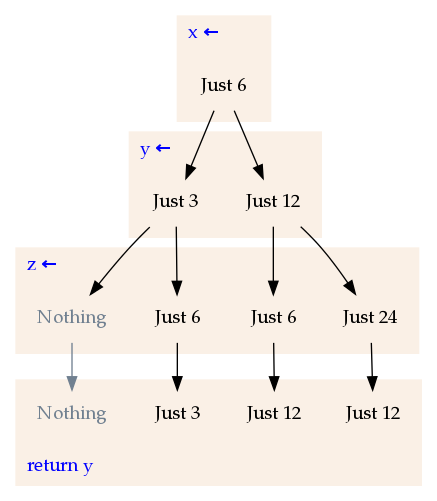
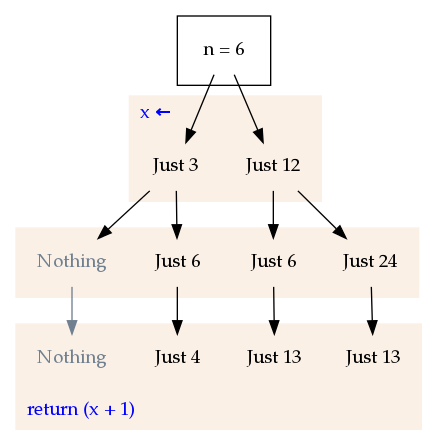
cool

Changed region(s): [[0.0297, 0.0292, 0.9817, 0.8472], [0.0595, 0.9056, 0.3272, 0.964], [0.3272, 0.2921, 0.3867, 0.3213]]

diff --git a/copy/entries/monad-plus-2.md b/copy/entries/monad-plus-2.md
@@ -177,7 +177,8 @@ ghci which MonadPlus we want.
 So there you have it. Maybe and lists are one and the same.  Lists *do* too
 represent the concept of failure and success.  So...what's the difference?
 
-### A List Apart
+A List Apart
+------------
 
 Lists can model failure the same way that Maybe can.  But it should be
 apparent that lists can do a little "more" than Maybe...
@@ -207,6 +208,8 @@ result of every path that could have lead to a success.  Contrast this to the
 `Maybe` monad, where a value goes through this arduous journey, but never has
 any choice.  There is only one path --- succesful, or otherwise.  A `Maybe` is
 deterministic...a list provides a choice in paths.
+
+### halveOrDouble
 
 Let's take a simple example: `halveOrDouble`.  It provides two succesful paths
 if you are even: halving and doubling.  It only provides one choice or
@@ -263,6 +266,8 @@ double-halve, or double-double.  The second, 6 could have emerged succesful
 with halve-double, double-halve, or double-double.  For 8, all paths are
 succesful, incidentally.  He better check his privilege.
 
+#### Do notation
+
 Let's look at this in the do notation form to offer some possible insight:
 
 ~~~haskell
@@ -297,6 +302,8 @@ inside the object --- `x` represents **a** 3 or **a** 12 (but not "both" at
 the same time), depending on what path you are taking/are "in".  That's why we
 can call `halveOrDouble x`: `halveOrDouble` only takes `Int`s and `x` is *one*
 `Int` along the path.
+
+### A winding journey
 
 Note that once you bind a value to a variable (like `x`), then that is the
 value for `x` for the entire rest of the journey.  In fact, let's see it in
@@ -337,37 +344,53 @@ four possible "paths".
 4.  Same story here, but for double-double; `x` is 12.  At the end of it all,
     the journey never fails, so it succeeds with `x + 1`, or 13.
 
+#### Taking it every way
 
-
-
-
-
-<!-- ![*halveOrDoubleDance 6*, all journeys illustrated](/img/entries/monad-plus/halvedouble.png "halveOrDoubleDance 6") -->
-
-Huh.  What happened here?
-
-Again, there are four possible paths/journies...only three of them end in
-success.  In the halve-halve path...it fails.  Now let's see what happens in
-the "halve-double" path.  In this case, it might be useful to look at the
-corresponding Maybe do-block, and using the choices we make explicitly:
+If this doesn't satisfy you, here is an example of four Maybe do blocks where
+we "flesh out" each possible path, with the value of the block at each line in
+comments:
 
 ~~~haskell
-halveOrDoubleDance' :: Int -> Maybe Int
-halveOrDoubleDance' n = do      -- halveOrDoubleDance' 6
-    x <- return n               -- Just 6
-    y <- halve x                -- Just 3
-    z <- double y               -- Just 6  (double n = Just n)
-    return y                    -- Just 3
+double :: Int -> Maybe Int
+double n = Just n
+
+halveHalvePlusOne :: Int -> Maybe Int
+halveHalvePlusOne n = do                -- n = 6
+    x <- halve n                        -- Just 3 (x = 3)
+    halve x                             -- Nothing
+    return $ x + 1                      -- (skip)
+
+halveDoublePlusOne :: Int -> Maybe Int
+halveDoublePlusOne = do                 -- n = 6
+    x <- halve n                        -- Just 3 (x = 3)
+    double x                            -- Just 6
+    return $ x + 1                      -- Just 4
+
+doubleHalvePlusOne :: Int -> Maybe Int
+doubleHalvePlusOne = do                 -- n = 6
+    x <- double n                       -- Just 12 (x = 12)
+    halve x                             -- Just 6
+    return $ x + 1                      -- Just 13
+
+doubleDoublePlusOne :: Int -> Maybe Int
+doubleDoublePlusOne = do                -- n = 6
+    x <- double n                       -- Just 12 (x = 12)
+    double x                            -- Just 6
+    return $ x + 1                      -- Just 13
 ~~~
 
-It is clear in this case that `return y` will give you the value of `y` **on
-that path**.
+#### A graphical look
 
-In our halve-double path, the value of `y` (which is bound on the second line)
-is 3.  That's why when we say `return y`, it is `[3]`.
+This tree might also be a nice illustration, showing what happens at each
+stage of the journey.
 
-Remember --- you have to treat everything as its own individual path.  In the
-halve-double path, `y` is 3.  So `return y` returns 3.
+![*hod2PlusOne 6*, all journeys illustrated](/img/entries/monad-plus/halvedouble.png "hod2PlusOne 6")
+
+Every complete "journey" is a complete path from top to
+bottom.  You can see that the left-left journey (the half-halve journey)
+fails.  The left-right journey (the halve-double journey) passes, and at the
+end is given the value of `x + 1` for the `x` in that particular journey.  The
+other journeys work the same way!
 
 ### Solving real-ish problems
 
